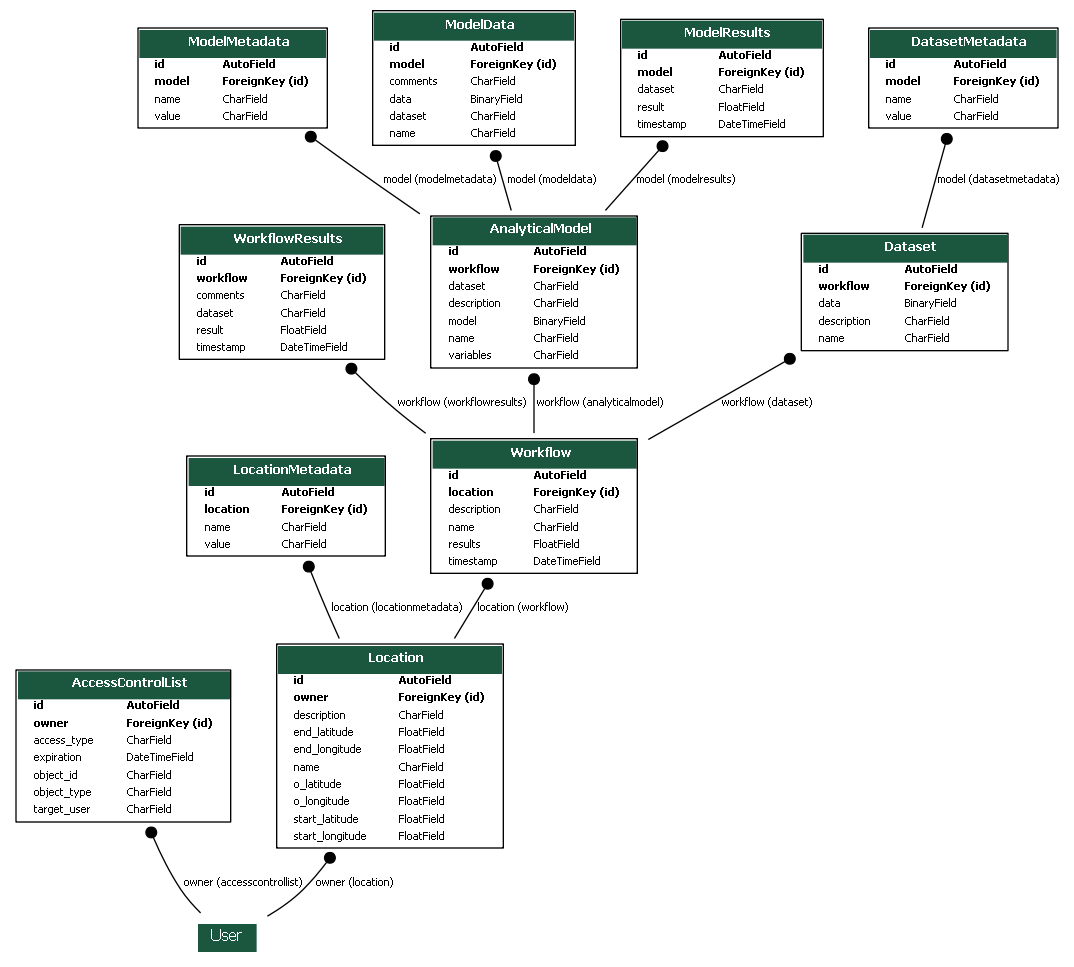
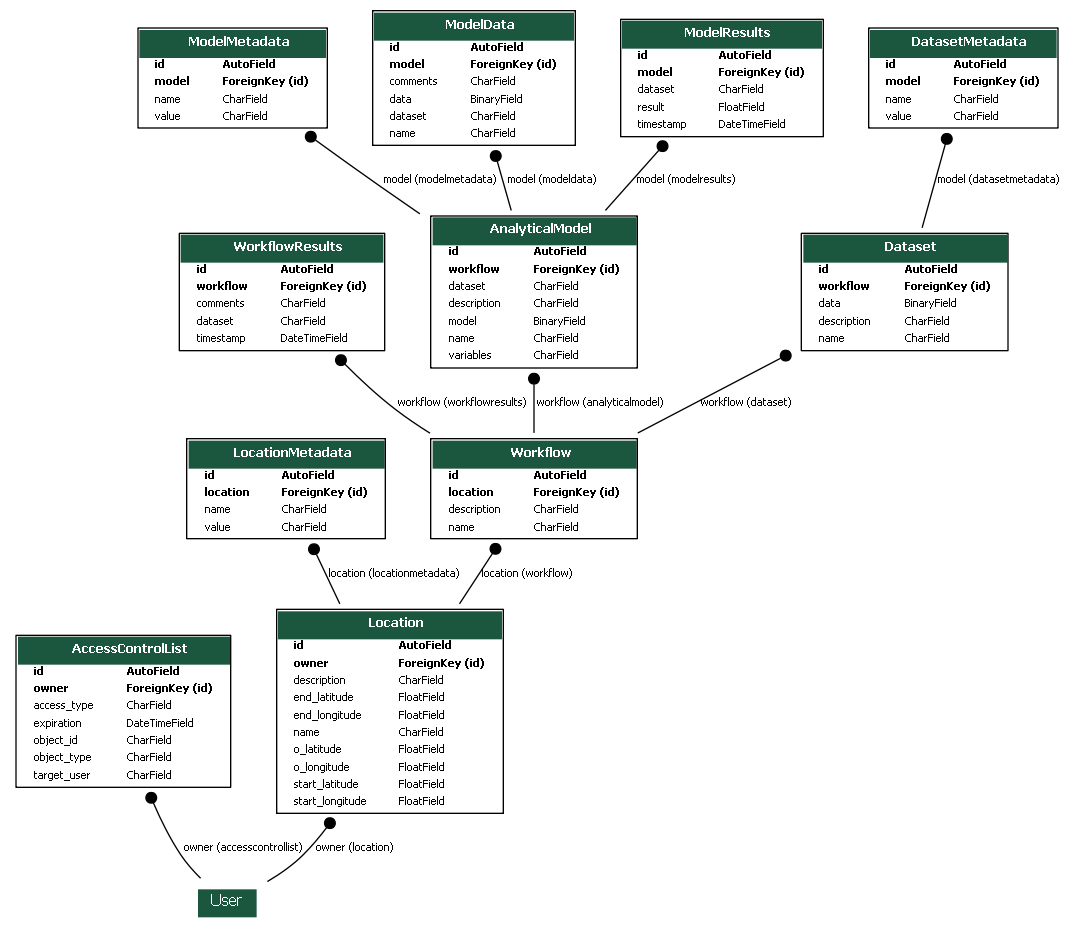
added acl functions, updated the models and locations functions, added location metadata

diff --git a/vb_django/acl.py b/vb_django/acl.py
@@ -1,0 +1,169 @@
+from vb_django.models import Location, Workflow, Dataset, AnalyticalModel, AccessControlList
+import datetime
+
+
+class Authorization:
+    """
+    Authorization performs an ownership check of the resource and permissions check from the ACL.
+    TODO: ACL check currently not implemented.
+    """
+
+    def grant_access(self, user, target_user, object_type, object_id, expiration, access_type="READ"):
+        """
+        Add entry in the ACL for the specific object and target user.
+        :param user: The current user (must be owner of the object)
+        :param target_user: The target user who access is being given to
+        :param object_type:
+        :param object_id:
+        :param expiration:
+        :param access_type:
+        :return:
+        """
+        owner = self.get_owner(object_type, object_id)
+        if owner is None or owner != user:
+            return False
+        current_acl = AccessControlList.objects.filter(
+            owner=user,
+            target_user=target_user,
+            object_type=object_type,
+            object_id=object_id
+        )
+        if current_acl is None:
+            new_acl = AccessControlList(
+                owner=user,
+                access_type=access_type,
+                object_id=object_id,
+                target_user=target_user,
+                expiration=expiration
+            )
+            new_acl.save()
+        else:
+            current_acl.expiration = expiration
+            current_acl.access_type = access_type
+            current_acl.save()
+        return True
+
+    def get_owner(self, object_type, object_id):
+        """
+        Gets the owner of the object if the object type and id is valid.
+        :param object_type: Type of object
+        :param object_id: The ID of the object
+        :return: The owner of the object or None if the object does not exist
+        """
+        if object_type == "Location":
+            l = Location.objects.filter(id=object_id)
+            if l is not None:
+                return l.owner
+            else:
+                return None
+        elif object_type == "Workflow":
+             w = Workflow.objects.filter(id=object_id)
+             if w is not None:
+                 return w.location.owner
+             else:
+                return None
+        elif object_type == "Dataset":
+            d = Dataset.objects.filter(id=object_id)
+            if d is not None:
+                return d.workflow.location.owner
+            else:
+                return None
+        elif object_type == "AnalyticalModel":
+            am = AnalyticalModel.objects.filter(id=object_id)
+            if am is not None:
+                return am.workflow.location.owner
+            else:
+                return None
+        return None
+
+    def check_authorization(self, user, object_type, object_id):
+        """
+        Base function for authorization check
+        :param user: The current user
+        :param object_type: The type of resource/object being requested
+        :param object_id: The id of the requested resource
+        :return: True if the user has access to the resource or False if access is denied
+        """
+        if object_type == "Location":
+            return self.check_location(user, object_id)
+        elif object_type == "Workflow":
+            return self.check_workflow(user, object_id)
+        elif object_type == "Dataset":
+            return self.check_dataset(user, object_id)
+        elif object_type == "AnalyticalModel":
+            return self.check_analyticalmodel(user, object_id)
+        else:
+            return False
+
+    def check_location(self, user, id):
+        """
+        Run authorization check on the Location resource
+        :param user: Current user
+        :param id: Location ID
+        :return: True if user has access, False if denied access.
+        """
+        has_access = False
+        location = Location.objects.filter(id=id)
+        if location.owner == user:
+            has_access = True
+        location_acl = AccessControlList.objects.filter(target_user=user.id, object_type="Location", object_id=id)
+        # if location_acl is not None:
+            # current_dt = datetime.datetime.now()
+            # TODO: Add expiration check, if expiration is < than now() deny access and remove entry from ACL
+            # has_access = True
+        return has_access
+
+    def check_workflow(self, user, id):
+        """
+        Run authorization check on the Workflow resource
+        :param user: Current user
+        :param id: Workflow ID
+        :return: True if user has access, False if denied access
+        """
+        has_access = False
+        workflow = Workflow.objects.filter(id=id)
+        if workflow.location.owner == user:
+            has_access = True
+        workflow_acl = AccessControlList.objects.filter(target_user=user.id, object_type="Workflow", object_id=id)
+        # if workflow_acl is not None:
+            # current_dt = datetime.datetime.now()
+            # TODO: Add expiration check, if expiration is < than now() deny access and remove entry from ACL
+            # has_access = True
+        return has_access
+
+    def check_dataset(self, user, id):
+        """
+        Run authorization check on the Dataset resource
+        :param user: Current user
+        :param id: Dataset ID
+        :return: True if user has access, False if denied access
+        """
+        has_access = False
+        dataset = Dataset.objects.filter(id=id)
+        if dataset.workflow.location.owner == user:
+            has_access = True
+        dataset_acl = AccessControlList.objects.filter(target_user=user.id, object_type="Dataset", object_id=id)
+        # if dataset_acl is not None:
+            # current_dt = datetime.datetime.now()
+            # TODO: Add expiration check, if expiration is < than now() deny access and remove entry from ACL
+            # has_access = True
+        return has_access
+
+    def check_analyticalmodel(self, user, id):
+        """
+        Run authorization check on the Analytical Model resource
+        :param user: Current user
+        :param id: Analytical model ID
+        :return: True if user has access, False if denied access
+        """
+        has_access = False
+        am = AnalyticalModel.objects.filter(id=id)
+        if am.workflow.location.owner == user:
+            has_access = True
+        am_acl = AccessControlList.objects.filter(target_user=user.id, object_type="AnalyticalModel", object_id=id)
+        # if dataset_acl is not None:
+            # current_dt = datetime.datetime.now()
+            # TODO: Add expiration check, if expiration is < than now() deny access and remove entry from ACL
+            # has_access = True
+        return has_access
+

diff --git a/vb_django/models.py b/vb_django/models.py
@@ -24,8 +24,13 @@ class Workflow(models.Model):
     location = models.ForeignKey(Location, on_delete=models.CASCADE)
     name = models.CharField(max_length=32)
     description = models.CharField(max_length=128)
-    results = models.FloatField()
+
+
+class WorkflowResults(models.Model):
+    workflow = models.ForeignKey(Workflow, on_delete=models.CASCADE)
+    dataset = models.CharField(max_length=32)           # ModelData ID
     timestamp = models.DateTimeField()
+    comments = models.CharField(max_length=256)
 
 
 class AnalyticalModel(models.Model):
@@ -41,6 +46,21 @@ class ModelMetadata(models.Model):
     model = models.ForeignKey(AnalyticalModel, on_delete=models.CASCADE)
     name = models.CharField(max_length=32)
     value = models.CharField(max_length=128)
+
+
+class ModelData(models.Model):
+    model = models.ForeignKey(AnalyticalModel, on_delete=models.CASCADE)
+    dataset = models.CharField(max_length=32)           # dataset ID
+    name = models.CharField(max_length=32)
+    data = models.BinaryField()
+    comments = models.CharField(max_length=256)
+
+
+class ModelResults(models.Model):
+    model = models.ForeignKey(AnalyticalModel, on_delete=models.CASCADE)
+    dataset = models.CharField(max_length=32)   # dataset ID
+    timestamp = models.DateTimeField()
+    result = models.FloatField()
 
 
 class Dataset(models.Model):
@@ -71,5 +91,5 @@ class AccessControlList(models.Model):
     target_user = models.CharField(max_length=32)
     object_id = models.CharField(max_length=32)
     object_type = models.CharField(max_length=15, choices=types)
-    duration = models.DateTimeField()
+    expiration = models.DateTimeField()
     access_type = models.CharField(max_length=5, choices=a_types)

diff --git a/vb_django/locations_metadata.py b/vb_django/locations_metadata.py
@@ -1,0 +1,32 @@
+from django.http import HttpResponse
+from django.views.decorators.http import require_http_methods
+from vb_django.models import Location, LocationMetadata, Workflow, AnalyticalModel, AccessControlList
+
+
+class LocationMetadataAPI:
+
+    @staticmethod
+    @require_http_methods(["POST"])
+    def add_metadata(request):
+        response = HttpResponse()
+        if request.user.is_authenticated:
+            metadata = request.POST.dict()
+            if "id" not in metadata:
+                response.status_code = 400
+                response.content = "No id found in request parameters."
+            else:
+                if "name" in metadata and "value" in metadata:
+                    location = Location.objects.filter(id=metadata["id"])
+                    if location is None:
+                        response.status_code = 400
+                        response.content = "No location "
+                    else:
+                        # TODO: Behavior for same name entries
+                        meta = LocationMetadata(location=location, name=metadata["name"], value=metadata["value"])
+                        meta.save()
+                else:
+                    response.status_code = 400
+                    response.content = "No name and value found in request parameters."
+        else:
+            response.status_code = 401
+        return response

diff --git a/vb_django/locations.py b/vb_django/locations.py
@@ -104,6 +104,7 @@ class LocationAPI:
         response = HttpResponse()
         if request.user.is_authenticated:
             location_details = request.PUT.dict()
+            # TODO: Check authorization
             if "id" in location_details:
                 current_location = Location.objects.filter(id=location_details["id"])
                 location_models = AnalyticalModel.objects.filter(
